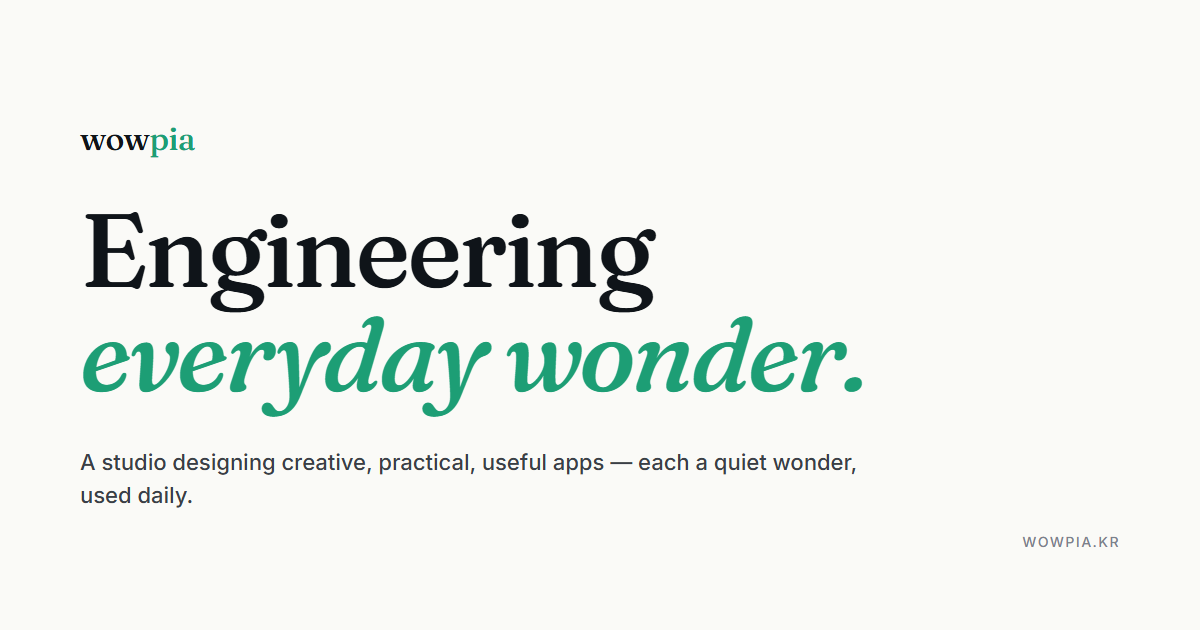
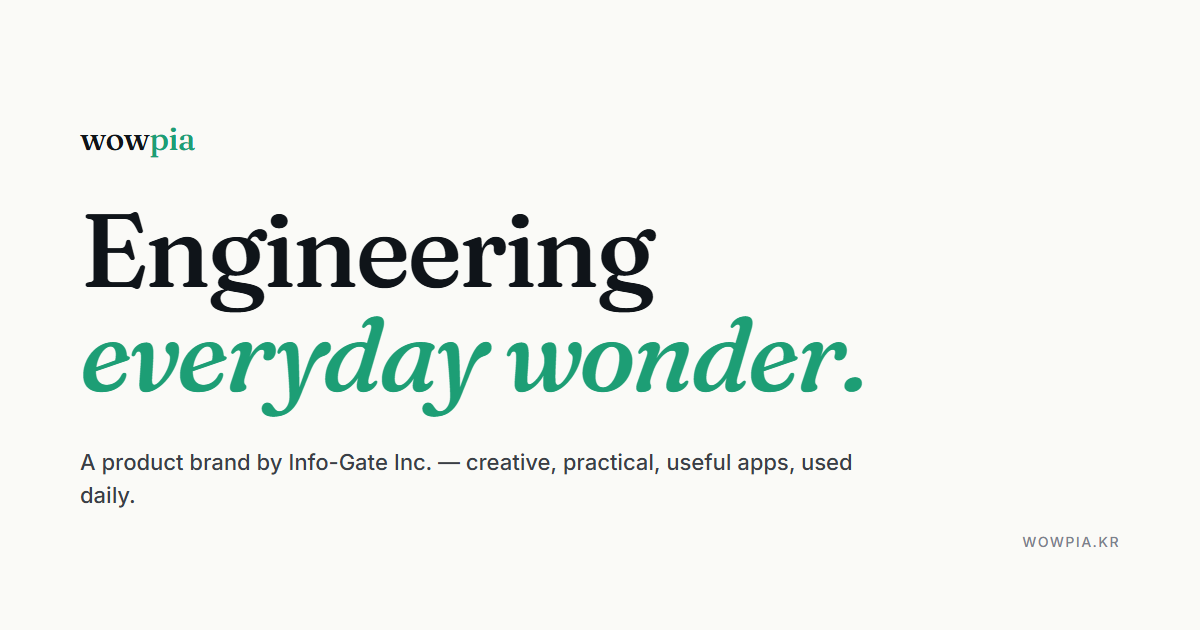
feat: Info-Gate Inc. 법인 브랜딩 반영
- Hero eyebrow: "A studio of everyday wonder" → "A product brand by Info-Gate Inc."
- About 섹션: 1인 스튜디오 → "wowpia is the product brand of Info-Gate Inc."
- 한글 About: "주식회사 인포게이트의 프로덕트 브랜드" 명시
- Footer: "© 2026 Info-Gate Inc. (주식회사 인포게이트) · wowpia · Seoul, Korea"
- OG 이미지 재생성 (서브카피 "A product brand by Info-Gate Inc." 반영)
- meta description + og:description 법인 설명 업데이트

Changed region(s): [[0.0617, 0.7238, 0.7092, 0.8143]]

diff --git a/index.html b/index.html
@@ -4,10 +4,10 @@
   <meta charset="UTF-8">
   <meta name="viewport" content="width=device-width, initial-scale=1.0">
   <title>wowpia — small apps, quietly made</title>
-  <meta name="description" content="wowpia는 조용한 관찰에서 시작해 매일 쓰이는 작은 앱을 만듭니다. Barolingo, Nailva, Moodva, Canvly.art, EQ-Quest, Pawfriend.">
+  <meta name="description" content="wowpia는 Info-Gate Inc.의 프로덕트 브랜드로, 창의·실용·배려가 만나는 앱을 설계합니다. Barolingo, Nailva, Moodva, Canvly.art, EQ-Quest, Pawfriend.">
   <link rel="canonical" href="https://wowpia.kr/">
-  <meta property="og:title" content="wowpia — small apps, quietly made">
-  <meta property="og:description" content="Small apps. Surprising utility.">
+  <meta property="og:title" content="wowpia — Engineering everyday wonder">
+  <meta property="og:description" content="A product brand by Info-Gate Inc. Useful apps, built with care.">
   <meta property="og:type" content="website">
   <meta property="og:url" content="https://wowpia.kr/">
   <meta property="og:image" content="https://wowpia.kr/og-image.png">
@@ -307,7 +307,7 @@
   <!-- Hero -->
   <section class="hero">
     <div class="wrap">
-      <div class="hero-eyebrow">A studio of everyday wonder</div>
+      <div class="hero-eyebrow">A product brand by Info-Gate Inc.</div>
       <h1>Engineering<br/><em>everyday wonder.</em></h1>
       <p class="sub">wowpia builds tools at the intersection of creativity, practicality, and care — each one a quiet wonder, used daily.</p>
       <p class="sub-ko">창의와 쓸모가 만나는 곳. wowpia는 매일 쓰이는 작은 경이를 조용히 설계합니다.</p>
@@ -329,13 +329,13 @@
       <div class="section-label">About</div>
       <h2>A wider wonder,<br/><em>engineered daily.</em></h2>
       <p class="about-body">
-        wowpia is a studio designing everyday wonder — apps where <em>creativity, practicality, and care</em> meet. Each app begins with a quiet observation (a habit someone wants to build, a sentence they can't parse, a process stuck in a spreadsheet) and ends as something a person would reach for every day.
+        wowpia is the product brand of <em>Info-Gate Inc.</em> — a team designing apps where creativity, practicality, and care meet. Each app begins with a quiet observation (a habit someone wants to build, a sentence they can't parse, a process stuck in a spreadsheet) and ends as something a person would reach for every day.
       </p>
       <p class="about-body">
         We are building toward a wider wonder: a world where everyday tools surprise you, quietly, with how well they fit. No dashboards demanding attention. No notification floods. Just well-made tools that earn their spot on your home screen.
       </p>
       <p class="about-body-ko">
-        wowpia는 <em>창의, 쓸모, 배려</em>가 만나는 앱을 설계하는 스튜디오입니다. 습관을 만들고 싶은 마음, 해석되지 않는 문장, 엑셀에 갇힌 업무 — 조용한 관찰에서 시작해 매일 쓰이는 도구로 완성합니다. 우리가 향하는 곳은 <em>더 넓은 놀라움의 세계</em>, 매일의 도구가 조용히 당신을 감탄시키는 곳입니다. 요란한 대시보드 없이, 알림의 홍수 없이, 홈 화면의 자리를 천천히 얻어내는 잘 만든 도구들입니다.
+        wowpia는 <em>주식회사 인포게이트</em>의 프로덕트 브랜드입니다. 창의·쓸모·배려가 만나는 앱을 설계합니다. 습관을 만들고 싶은 마음, 해석되지 않는 문장, 엑셀에 갇힌 업무 — 조용한 관찰에서 시작해 매일 쓰이는 도구로 완성합니다. 우리가 향하는 곳은 <em>더 넓은 놀라움의 세계</em>, 매일의 도구가 조용히 당신을 감탄시키는 곳입니다. 요란한 대시보드 없이, 알림의 홍수 없이, 홈 화면의 자리를 천천히 얻어내는 잘 만든 도구들입니다.
       </p>
     </div>
   </section>
@@ -352,7 +352,7 @@
   </section>
 
   <footer>
-    © 2026 wowpia · Seoul, Korea<br>
+    © 2026 <strong>Info-Gate Inc.</strong> (주식회사 인포게이트) · wowpia · Seoul, Korea<br>
     <a href="#apps">Apps</a> ·
     <a href="#about">About</a> ·
     <a href="#contact">Contact</a>
